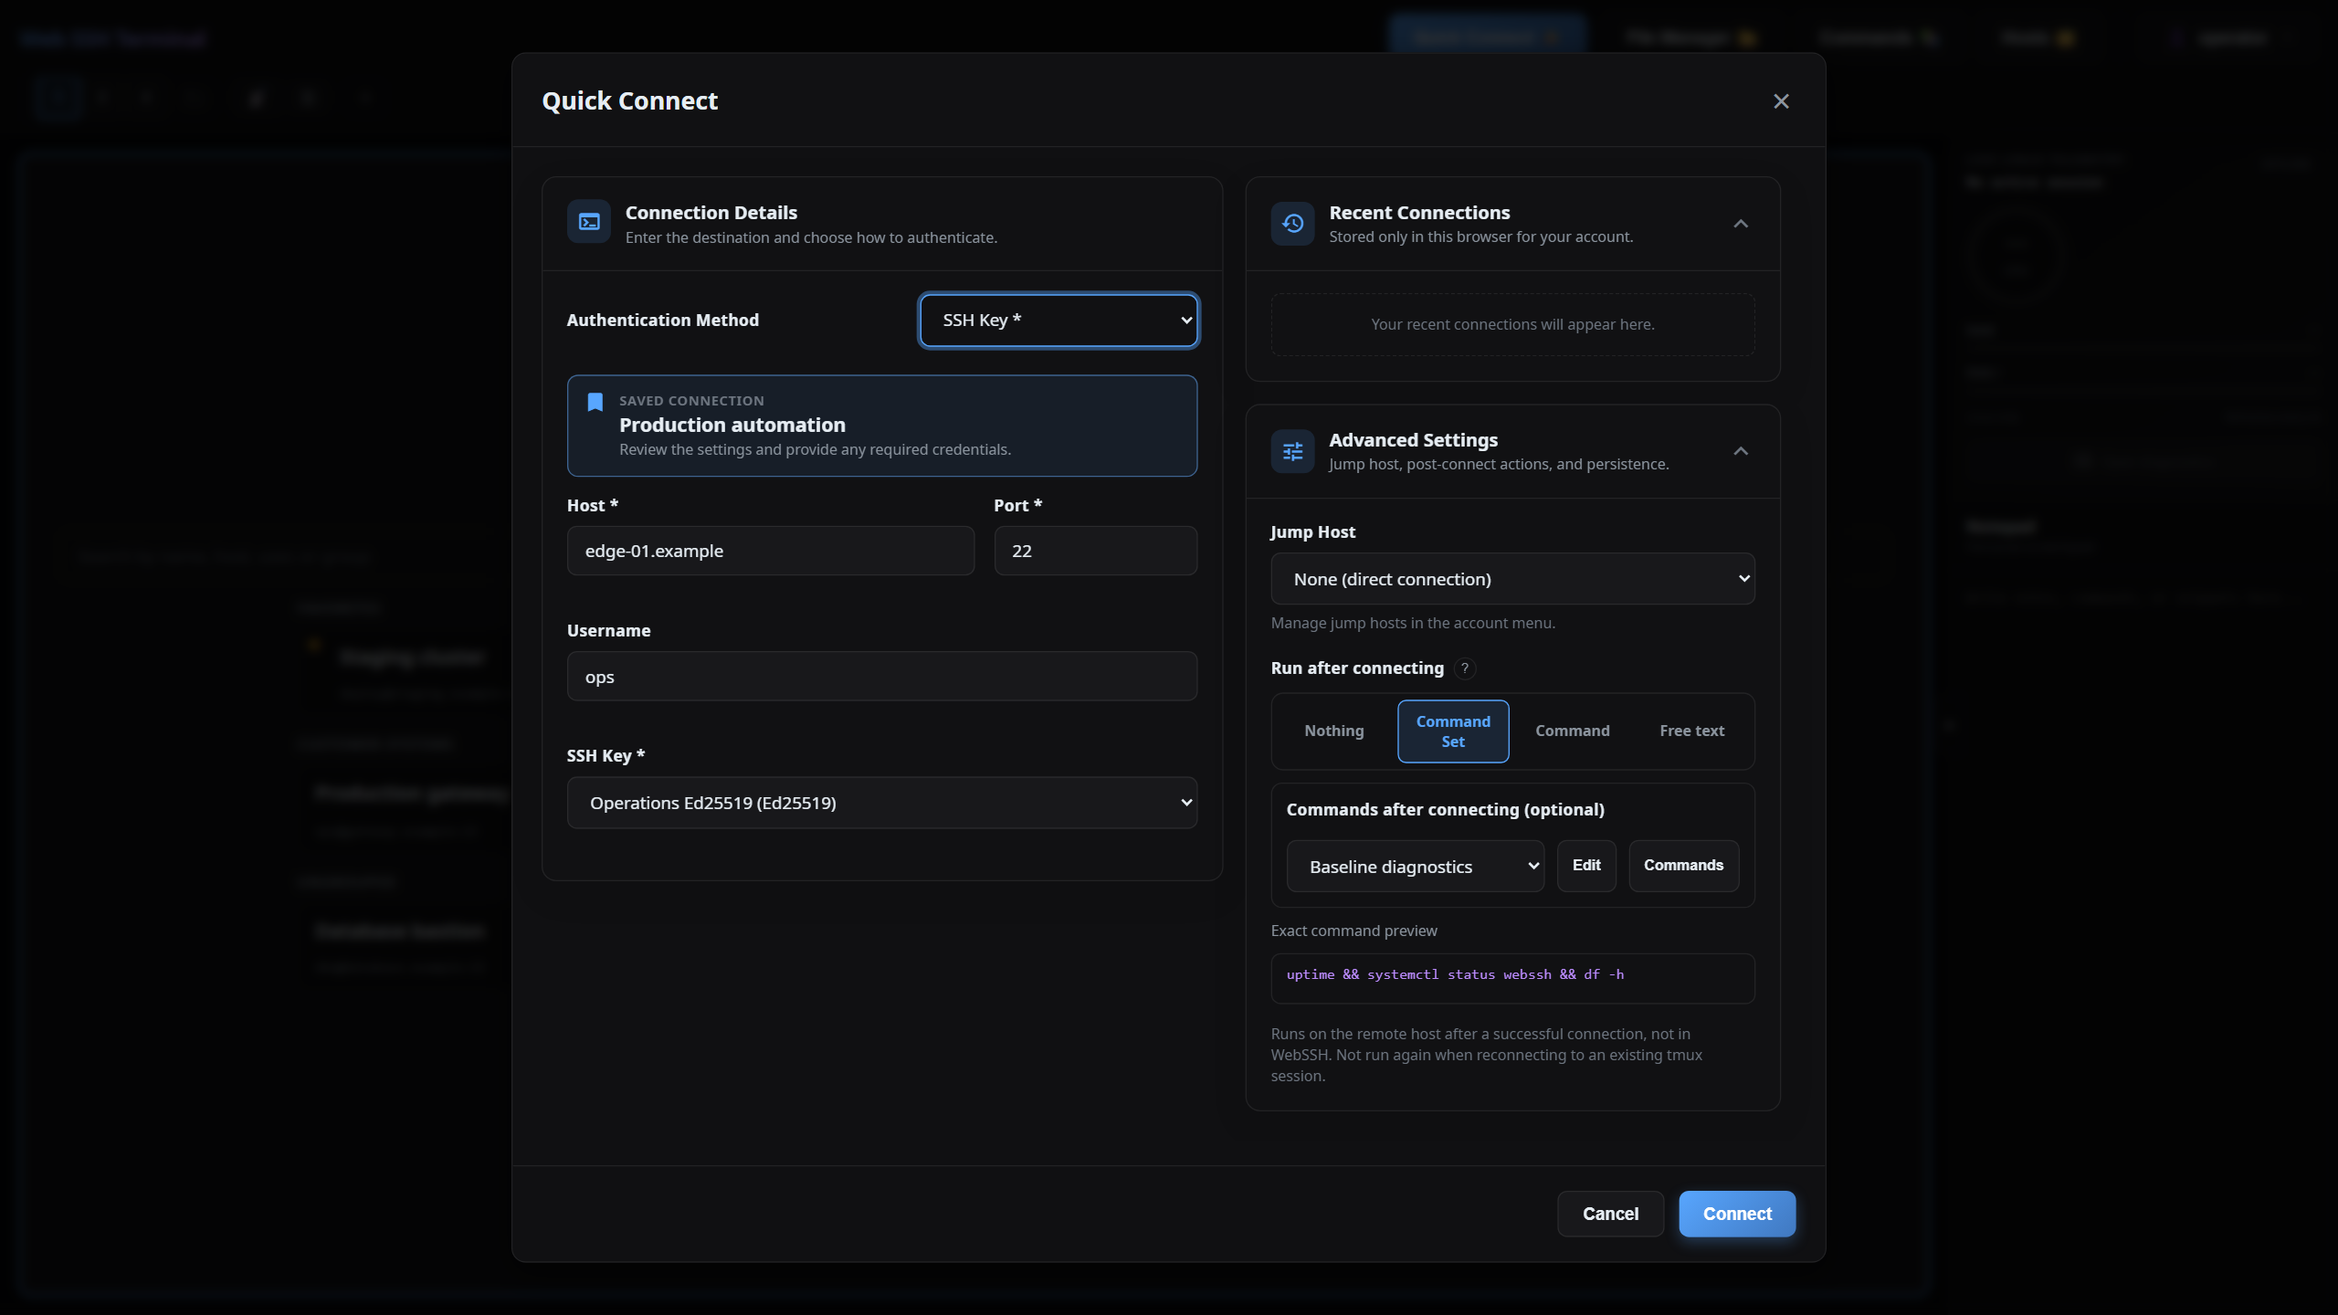
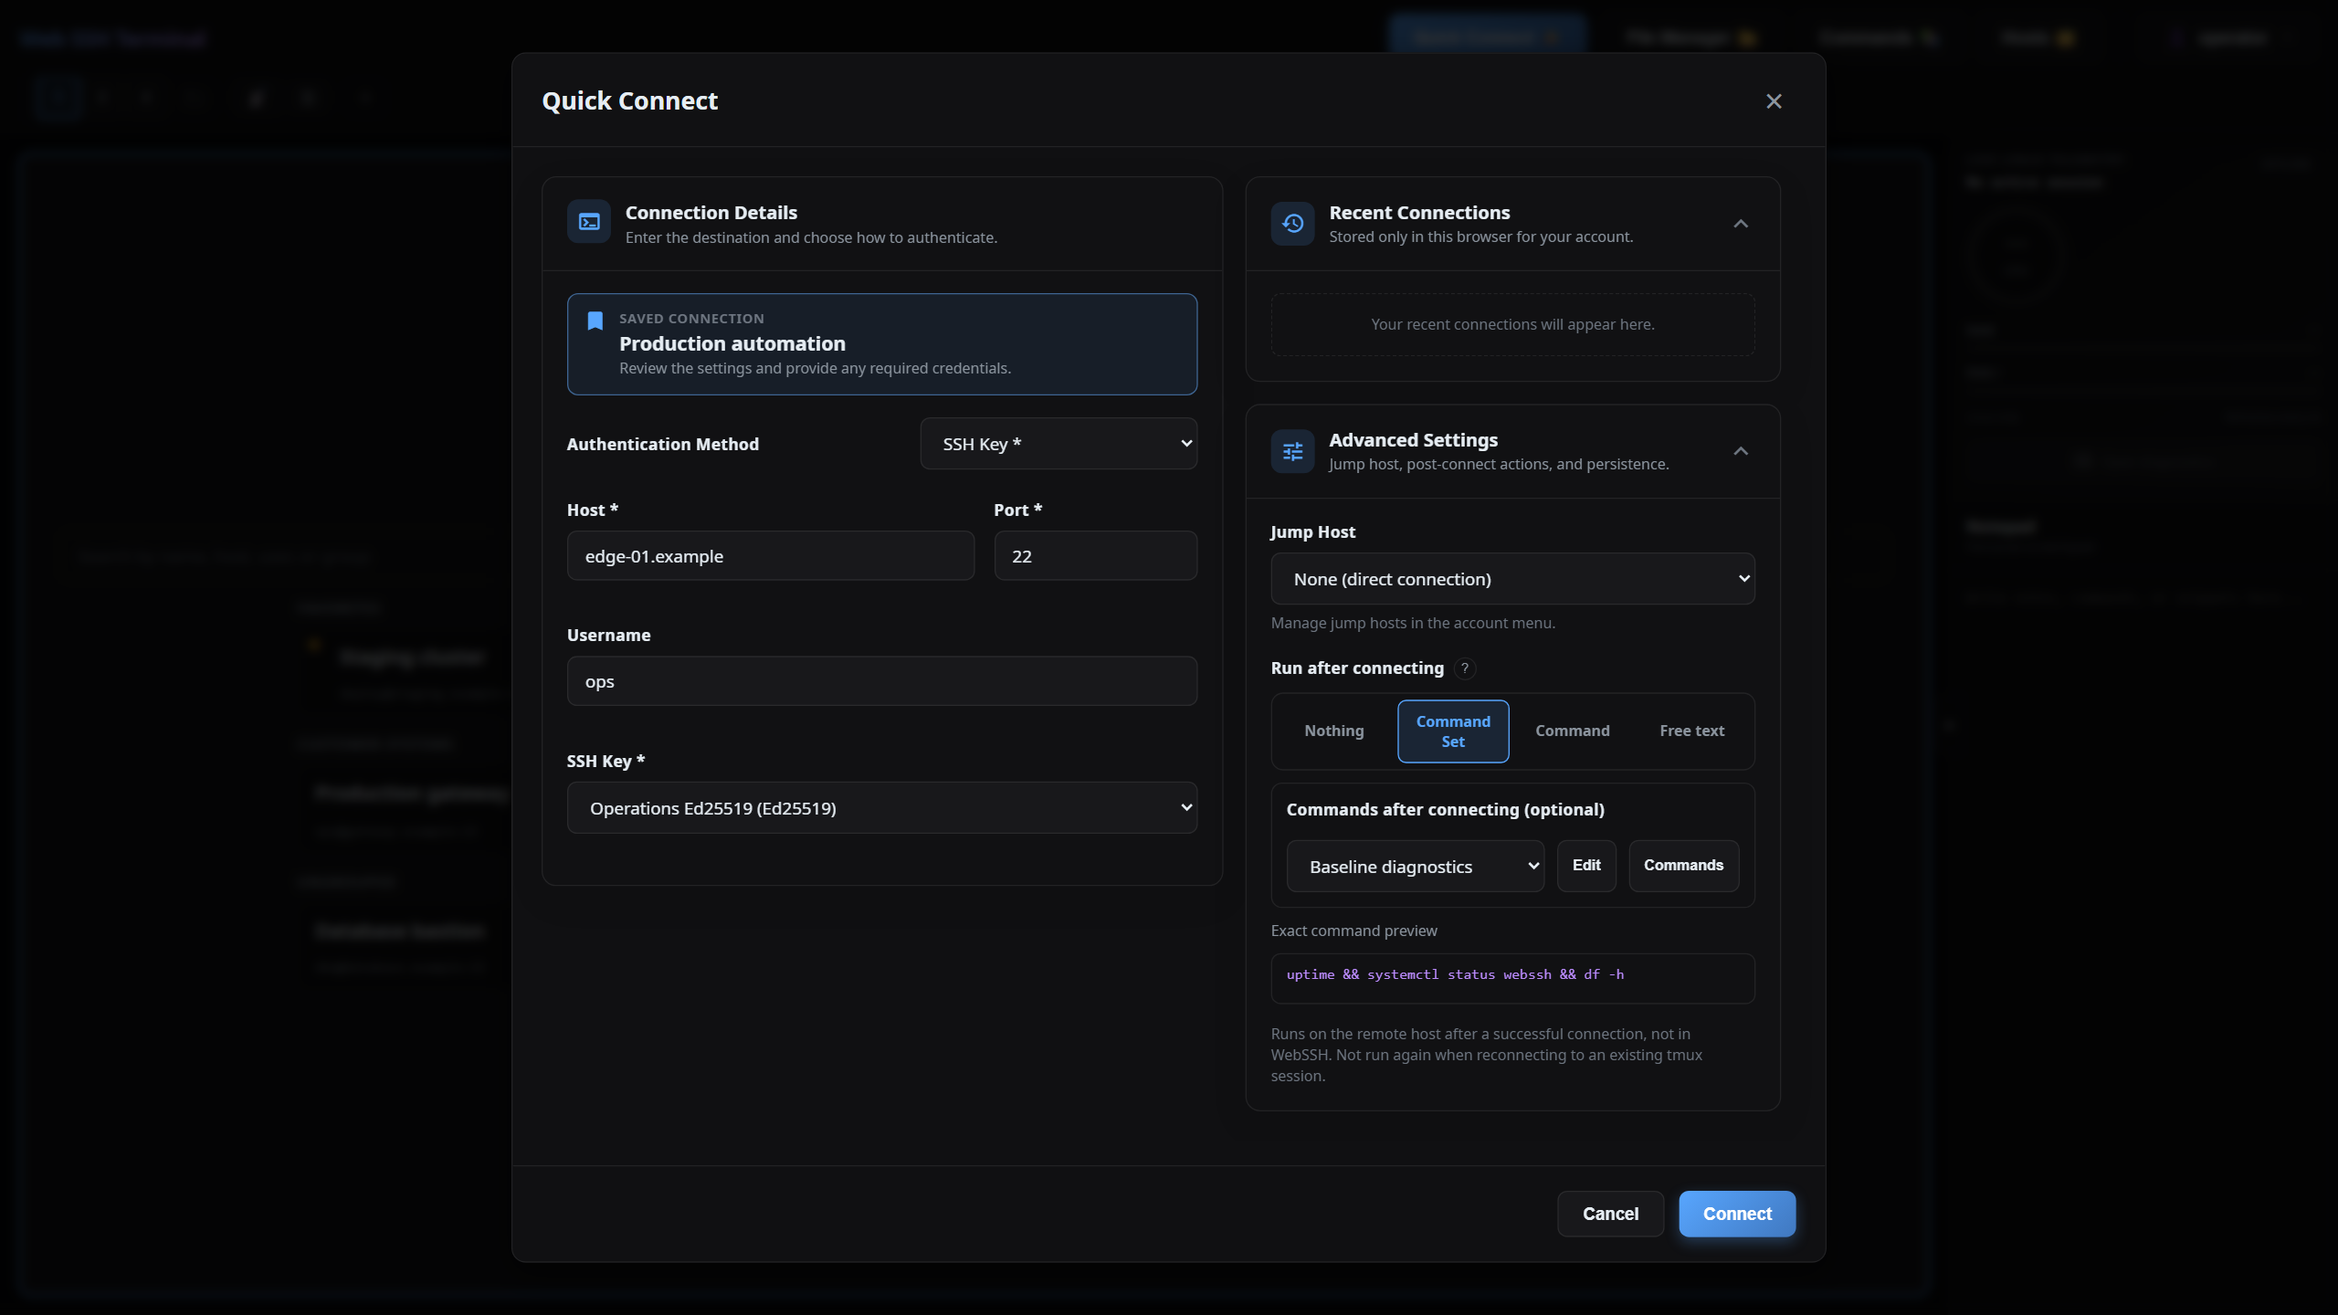
Polish file workspace controls

diff --git a/templates/index.html b/templates/index.html
@@ -18,7 +18,7 @@
     <link rel="stylesheet" href="{{ url_for('static', filename='vendor/material-icons/material-icons.css') }}">
 
     <link rel="stylesheet" href="{{ url_for('static', filename='css/style.css') }}?v=16">
-    <link rel="stylesheet" href="{{ url_for('static', filename='css/sftp-file-manager.css') }}?v=8">
+    <link rel="stylesheet" href="{{ url_for('static', filename='css/sftp-file-manager.css') }}?v=9">
     <link rel="stylesheet" href="{{ url_for('static', filename='css/session-workspace.css') }}?v=6">
 </head>
 <body data-theme="{{ theme|default('glass') }}" data-confirm-session-close="{{ 'true' if confirm_session_close else 'false' }}" data-connection-history-scope="{{ connection_history_scope }}">
@@ -425,6 +425,22 @@
                             </div>
 
                             <div class="quick-connect-details-content">
+                                <div id="connectionProfileContext" class="connection-profile-context hidden" role="status">
+                                    <span class="material-icons" aria-hidden="true">bookmark</span>
+                                    <div>
+                                        <small data-i18n="connection.savedContext">Saved connection</small>
+                                        <strong id="connectionProfileContextName"></strong>
+                                        <span data-i18n="connection.reviewBeforeConnect">Review the settings and provide any required credentials.</span>
+                                        <div id="connectionProfileJumpResolution" class="connection-profile-jump-resolution hidden">
+                                            <span data-i18n="connection.jumpHostUnavailable">The saved jump host is unavailable. Choose a replacement below or confirm a direct connection.</span>
+                                            <label for="connectionProfileDirectConfirm" class="checkbox-label">
+                                                <input type="checkbox" id="connectionProfileDirectConfirm">
+                                                <span data-i18n="connection.connectDirectlyInstead">Connect directly instead</span>
+                                            </label>
+                                        </div>
+                                    </div>
+                                </div>
+
                                 <div class="form-group quick-connect-auth-method">
                                     <label for="authTypeSelect" data-i18n="connection.authMethod">Authentication Method</label>
                                     <select id="authTypeSelect" class="form-control">
@@ -437,22 +453,6 @@
                                 </div>
 
                                 <div class="quick-connect-core-fields">
-                            <div id="connectionProfileContext" class="connection-profile-context hidden" role="status">
-                                <span class="material-icons" aria-hidden="true">bookmark</span>
-                                <div>
-                                    <small data-i18n="connection.savedContext">Saved connection</small>
-                                    <strong id="connectionProfileContextName"></strong>
-                                    <span data-i18n="connection.reviewBeforeConnect">Review the settings and provide any required credentials.</span>
-                                    <div id="connectionProfileJumpResolution" class="connection-profile-jump-resolution hidden">
-                                        <span data-i18n="connection.jumpHostUnavailable">The saved jump host is unavailable. Choose a replacement below or confirm a direct connection.</span>
-                                        <label for="connectionProfileDirectConfirm" class="checkbox-label">
-                                            <input type="checkbox" id="connectionProfileDirectConfirm">
-                                            <span data-i18n="connection.connectDirectlyInstead">Connect directly instead</span>
-                                        </label>
-                                    </div>
-                                </div>
-                            </div>
-
                     <div class="form-row">
                         <div class="form-group flex-2">
                             <label for="hostInput" data-i18n="connection.host">Host *</label>
@@ -1303,7 +1303,7 @@
     <script src="{{ url_for('static', filename='js/session-command-launcher.js') }}?v=2"></script>
     <script src="{{ url_for('static', filename='js/file-transfer.js') }}?v=2"></script>
     <script src="{{ url_for('static', filename='js/file-workspace-state.js') }}?v=2"></script>
-    <script src="{{ url_for('static', filename='js/sftp-file-manager.js') }}?v=11"></script>
+    <script src="{{ url_for('static', filename='js/sftp-file-manager.js') }}?v=12"></script>
     <script src="{{ url_for('static', filename='js/connection-history.js') }}?v=2"></script>
     <script src="{{ url_for('static', filename='js/app.js') }}?v=13"></script>
     <script>

diff --git a/static/js/sftp-file-manager.js b/static/js/sftp-file-manager.js
@@ -553,10 +553,6 @@ class SFTPFileManager {
                                 <span data-i18n="fm.workspace.twoPanes">2 panes</span>
                             </button>
                         </div>
-                        <button type="button" class="btn btn-primary btn-sm" id="fmOpenSource" aria-label="Open source" data-i18n-aria-label="fm.workspace.openSource">
-                            <span class="material-icons" aria-hidden="true">add_link</span>
-                            <span data-i18n="fm.workspace.openSource">Open source</span>
-                        </button>
                     </div>
                     <button type="button" class="fm-workspace-close" id="fmClose" aria-label="Close" data-i18n-aria-label="common.close">
                         <span class="material-icons" aria-hidden="true">close</span>
@@ -746,14 +742,14 @@ class SFTPFileManager {
                     </div>
 
                     <!-- Transfer Queue -->
-                    <div class="fm-queue" id="fmQueue">
-                        <div class="fm-queue-header" id="fmQueueHeader">
-                            <div class="fm-queue-title">
+                    <div class="fm-queue collapsed" id="fmQueue">
+                        <button type="button" class="fm-queue-header" id="fmQueueHeader" aria-expanded="false" aria-controls="fmQueueList">
+                            <span class="fm-queue-title">
                                 <span class="material-icons">sync</span>
                                 <span data-i18n="fm.transfers">Transfers</span> <span class="fm-queue-badge" id="fmQueueBadge">0</span>
-                            </div>
+                            </span>
                             <span class="fm-queue-toggle material-icons" id="fmQueueToggle">expand_more</span>
-                        </div>
+                        </button>
                         <div class="fm-queue-list" id="fmQueueList"></div>
                     </div>
 
@@ -979,7 +975,6 @@ class SFTPFileManager {
         document.getElementById('fmDelete').addEventListener('click', () => this.deleteSelected());
         document.getElementById('fmLayoutSingle').addEventListener('click', () => this.setWorkspaceLayout('single'));
         document.getElementById('fmLayoutSplit').addEventListener('click', () => this.setWorkspaceLayout('split'));
-        document.getElementById('fmOpenSource').addEventListener('click', () => this.openSourceLauncher(this.workspace.activePane));
         document.querySelectorAll('[data-source-target]').forEach(button => {
             button.addEventListener('click', () => this.openSourceLauncher(button.dataset.sourceTarget));
         });
@@ -2033,7 +2028,7 @@ class SFTPFileManager {
                     <strong>${this.escapeHtml(this.t('fm.selectSourceAbove', 'Select a source above'))}</strong>
                     <p>${this.escapeHtml(this.t('fm.workspace.sourceHint', 'Choose an active SSH session or a saved host.'))}</p>
                     <button type="button" class="btn btn-primary fm-empty-source-cta" aria-label="${this.escapeHtml(chooseLabel)}">
-                        <span class="material-icons" aria-hidden="true">add_link</span>
+                        <span class="material-icons" aria-hidden="true">folder_open</span>
                         <span>${this.escapeHtml(openSourceLabel)}</span>
                     </button>
                 </div>
@@ -3057,9 +3052,10 @@ class SFTPFileManager {
     }
 
     toggleQueue() {
-        document.getElementById('fmQueue').classList.toggle('collapsed');
+        const collapsed = document.getElementById('fmQueue').classList.toggle('collapsed');
         const toggle = document.getElementById('fmQueueToggle');
-        toggle.textContent = toggle.textContent === '▼' ? '▲' : '▼';
+        toggle.textContent = collapsed ? 'expand_more' : 'expand_less';
+        document.getElementById('fmQueueHeader').setAttribute('aria-expanded', String(!collapsed));
     }
 
     showContextMenu(e, pane, index) {

diff --git a/tests/e2e/file-workspace.spec.js b/tests/e2e/file-workspace.spec.js
@@ -34,6 +34,10 @@ test('source-first workspace preserves panes and exposes only functional SFTP ac
     await openWorkspaceWithSources(page);
 
     await expect(page.locator('#sftpFileManager')).toHaveClass(/fm-workspace-mode/);
+    await expect(page.locator('#fmOpenSource')).toHaveCount(0);
+    await expect(page.locator('#fmQueue')).toHaveClass(/collapsed/);
+    await expect(page.locator('#fmQueueHeader')).toHaveAttribute('aria-expanded', 'false');
+    await expect(page.locator('#fmQueueList')).toBeHidden();
     await expect(page.locator('#fmSourceLauncher')).toHaveClass(/show/);
     await expect(page.locator('#fmSourceLauncherTitle')).toHaveText('Open source');
     await expect(page.locator('[data-source-target="left"]')).toHaveAttribute('aria-label', 'Open source');
@@ -96,6 +100,15 @@ test('source-first workspace preserves panes and exposes only functional SFTP ac
     await expect(page.locator('#fmRightTabs')).toContainText('release archive');
     await expect(page.locator('[data-source-target="left"]')).toHaveAttribute('aria-label', 'Open source: Left side');
     await expect(page.locator('[data-source-target="right"]')).toHaveAttribute('aria-label', 'Open source: Right side');
+
+    await page.locator('#fmQueueHeader').click();
+    await expect(page.locator('#fmQueue')).not.toHaveClass(/collapsed/);
+    await expect(page.locator('#fmQueueHeader')).toHaveAttribute('aria-expanded', 'true');
+    await expect(page.locator('#fmQueueToggle')).toHaveText('expand_less');
+    await expect(page.locator('#fmQueueList')).toBeVisible();
+    await page.locator('#fmQueueHeader').click();
+    await expect(page.locator('#fmQueue')).toHaveClass(/collapsed/);
+    await expect(page.locator('#fmQueueHeader')).toHaveAttribute('aria-expanded', 'false');
 
     await page.evaluate(() => {
         const manager = window.sftpFileManager;
@@ -276,7 +289,7 @@ test('splitting two single-view tabs distributes them across both file areas', a
     await openWorkspaceWithSources(page);
 
     await page.locator('[data-source-key="ssh:workspace-source"]').click();
-    await page.locator('#fmOpenSource').click();
+    await page.locator('[data-source-target="left"]').click();
     await page.locator('[data-source-key="ssh:workspace-target"]').click();
     await expect(page.locator('#fmLeftTabs .fm-source-tab')).toHaveCount(2);
 

diff --git a/tests/js/sftp-transfer-queue.test.js b/tests/js/sftp-transfer-queue.test.js
@@ -33,6 +33,35 @@ test('standalone workspace starts in one pane with independent empty states', ()
     assert.equal(manager.workspace.getActiveTab('right'), null);
 });
 
+test('transfer queue toggle keeps icon and accessibility state in sync', () => {
+    const queueClasses = classList();
+    queueClasses.add('collapsed');
+    const queue = { classList: queueClasses };
+    const toggle = { textContent: 'expand_more' };
+    const header = {
+        attributes: { 'aria-expanded': 'false' },
+        setAttribute(name, value) { this.attributes[name] = value; },
+    };
+    const originalGetElementById = global.document.getElementById;
+    global.document.getElementById = id => ({
+        fmQueue: queue,
+        fmQueueToggle: toggle,
+        fmQueueHeader: header,
+    }[id] || null);
+    const manager = Object.create(SFTPFileManager.prototype);
+
+    manager.toggleQueue();
+    assert.equal(queue.classList.contains('collapsed'), false);
+    assert.equal(toggle.textContent, 'expand_less');
+    assert.equal(header.attributes['aria-expanded'], 'true');
+
+    manager.toggleQueue();
+    assert.equal(queue.classList.contains('collapsed'), true);
+    assert.equal(toggle.textContent, 'expand_more');
+    assert.equal(header.attributes['aria-expanded'], 'false');
+    global.document.getElementById = originalGetElementById;
+});
+
 test('embedded pane state cannot overwrite standalone workspace tabs', () => {
     const manager = Object.create(SFTPFileManager.prototype);
     manager.initializeWorkspaceState();

diff --git a/static/css/sftp-file-manager.css b/static/css/sftp-file-manager.css
@@ -578,6 +578,10 @@
     max-height: 44px;
 }
 
+.fm-queue.collapsed .fm-queue-list {
+    display: none;
+}
+
 .fm-queue-header {
     display: flex;
     justify-content: space-between;
@@ -586,6 +590,13 @@
     background: var(--bg-tertiary);
     border-bottom: 1px solid var(--border-color);
     cursor: pointer;
+    width: 100%;
+    border-top: 0;
+    border-right: 0;
+    border-left: 0;
+    color: inherit;
+    font: inherit;
+    text-align: left;
 }
 
 .fm-queue-header:hover {
@@ -2105,9 +2116,13 @@
 
 #sftpFileManager.fm-workspace-mode .fm-queue {
     flex: 0 0 auto;
-    max-height: 205px;
+    max-height: min(320px, 35vh);
     border-radius: 10px;
     box-shadow: 0 8px 20px rgba(0, 0, 0, 0.12);
+}
+
+#sftpFileManager.fm-workspace-mode .fm-queue.collapsed {
+    max-height: 44px;
 }
 
 .fm-source-empty-state {
@@ -2477,8 +2492,7 @@
     }
 
     .fm-workspace-header h2 .fm-workspace-brand,
-    .fm-layout-btn span:not(.material-icons),
-    #fmOpenSource span:not(.material-icons) {
+    .fm-layout-btn span:not(.material-icons) {
         display: none;
     }
 

diff --git a/tests/test_profile_launcher_ui.py b/tests/test_profile_launcher_ui.py
@@ -16,6 +16,14 @@ def test_template_has_one_empty_pane_renderer_and_loads_launcher_utility_first()
     assert template.index("filename='js/connection-launcher.js'") < template.index(
         "filename='js/profile-manager.js'"
     )
+
+
+def test_saved_connection_context_precedes_authentication_method():
+    template = read('templates/index.html')
+    context = template.index('id="connectionProfileContext"')
+    auth_method = template.index('id="authTypeSelect"')
+    host = template.index('id="hostInput"')
+    assert context < auth_method < host
     assert template.index("filename='js/profile-launcher-utils.js'") < template.index(
         "filename='js/profile-manager.js'"
     )
@@ -25,7 +33,7 @@ def test_merged_profile_frontend_assets_have_distinct_cache_versions():
     template = read('templates/index.html')
     expected_versions = {
         "filename='css/style.css'": '?v=16',
-        "filename='css/sftp-file-manager.css'": '?v=8',
+        "filename='css/sftp-file-manager.css'": '?v=9',
         "filename='js/i18n.js'": '?v=15',
         "filename='js/command-workspace.js'": '?v=2',
         "filename='js/command-palette-utils.js'": '?v=1',
@@ -34,7 +42,7 @@ def test_merged_profile_frontend_assets_have_distinct_cache_versions():
         "filename='js/profile-manager.js'": '?v=12',
         "filename='js/session-manager.js'": '?v=6',
         "filename='js/terminal-manager.js'": '?v=4',
-        "filename='js/sftp-file-manager.js'": '?v=11',
+        "filename='js/sftp-file-manager.js'": '?v=12',
         "filename='js/jump-host-manager.js'": '?v=4',
         "filename='js/command-library.js'": '?v=3',
         "filename='js/command-set-manager.js'": '?v=2',
